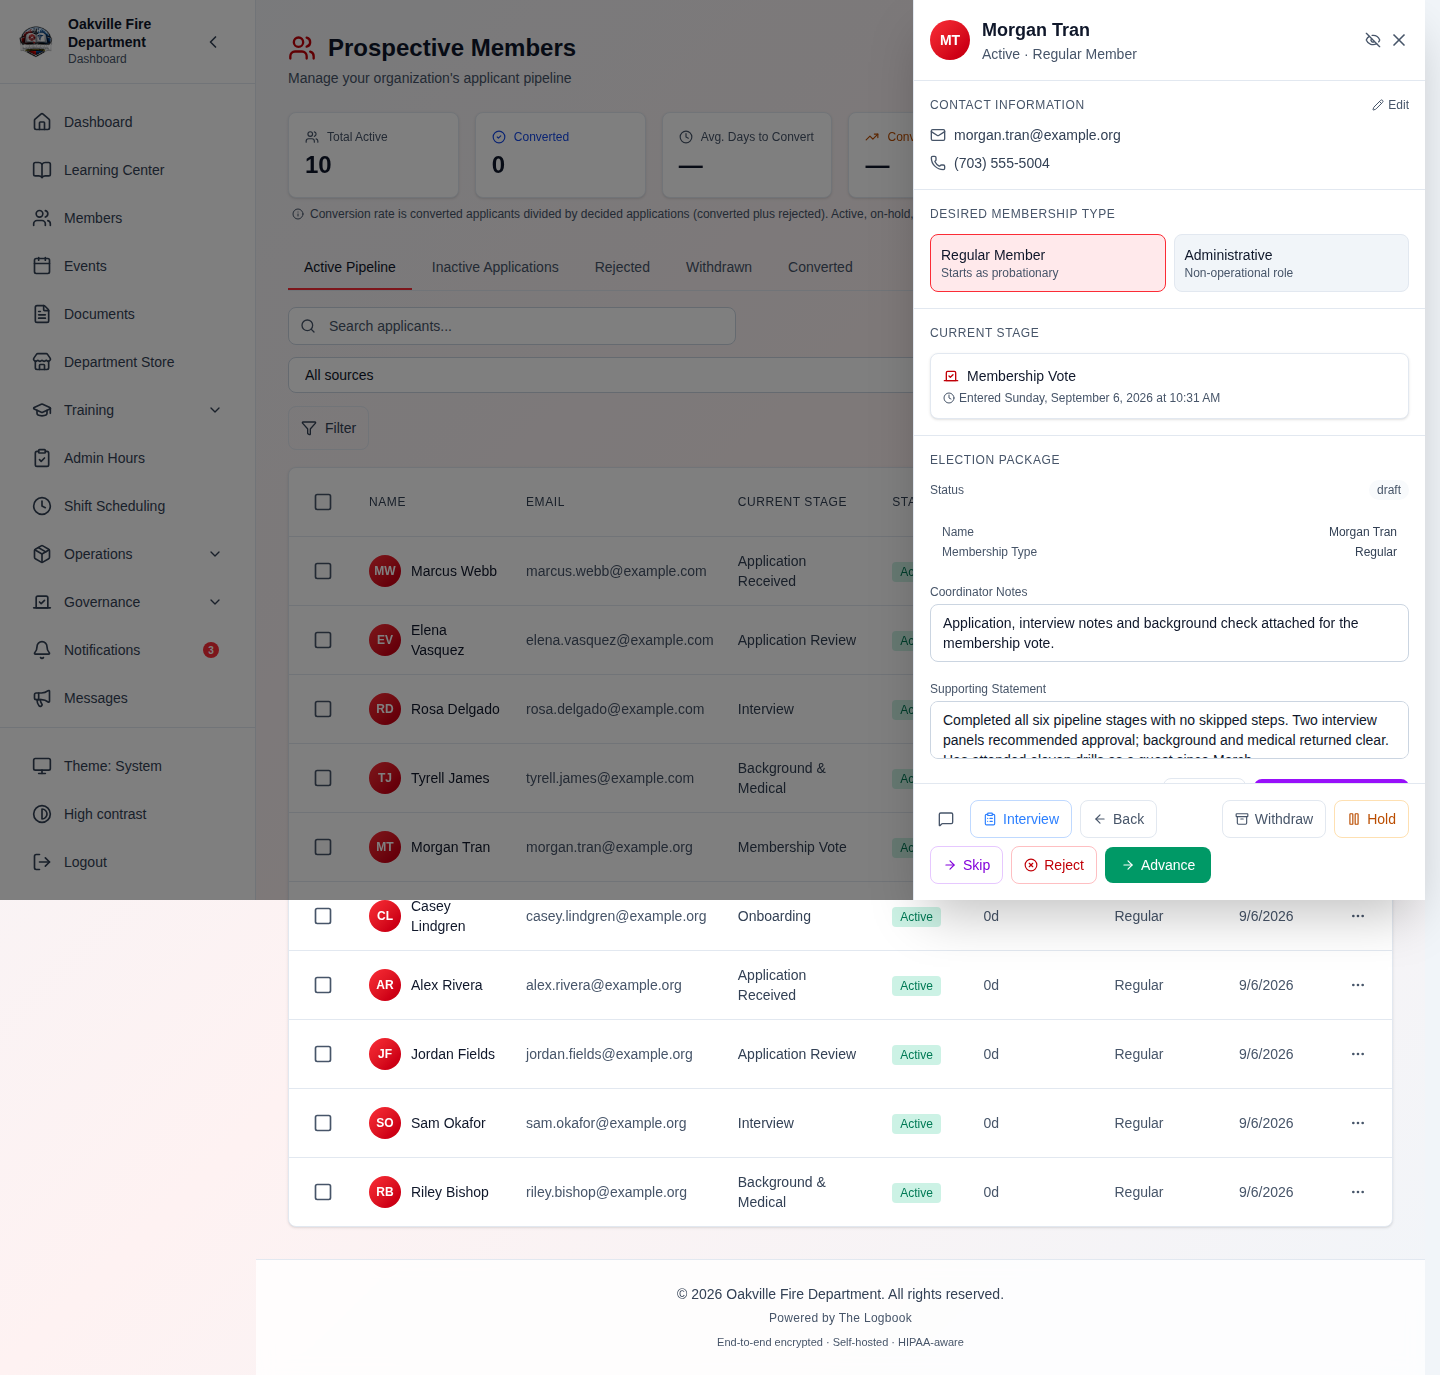
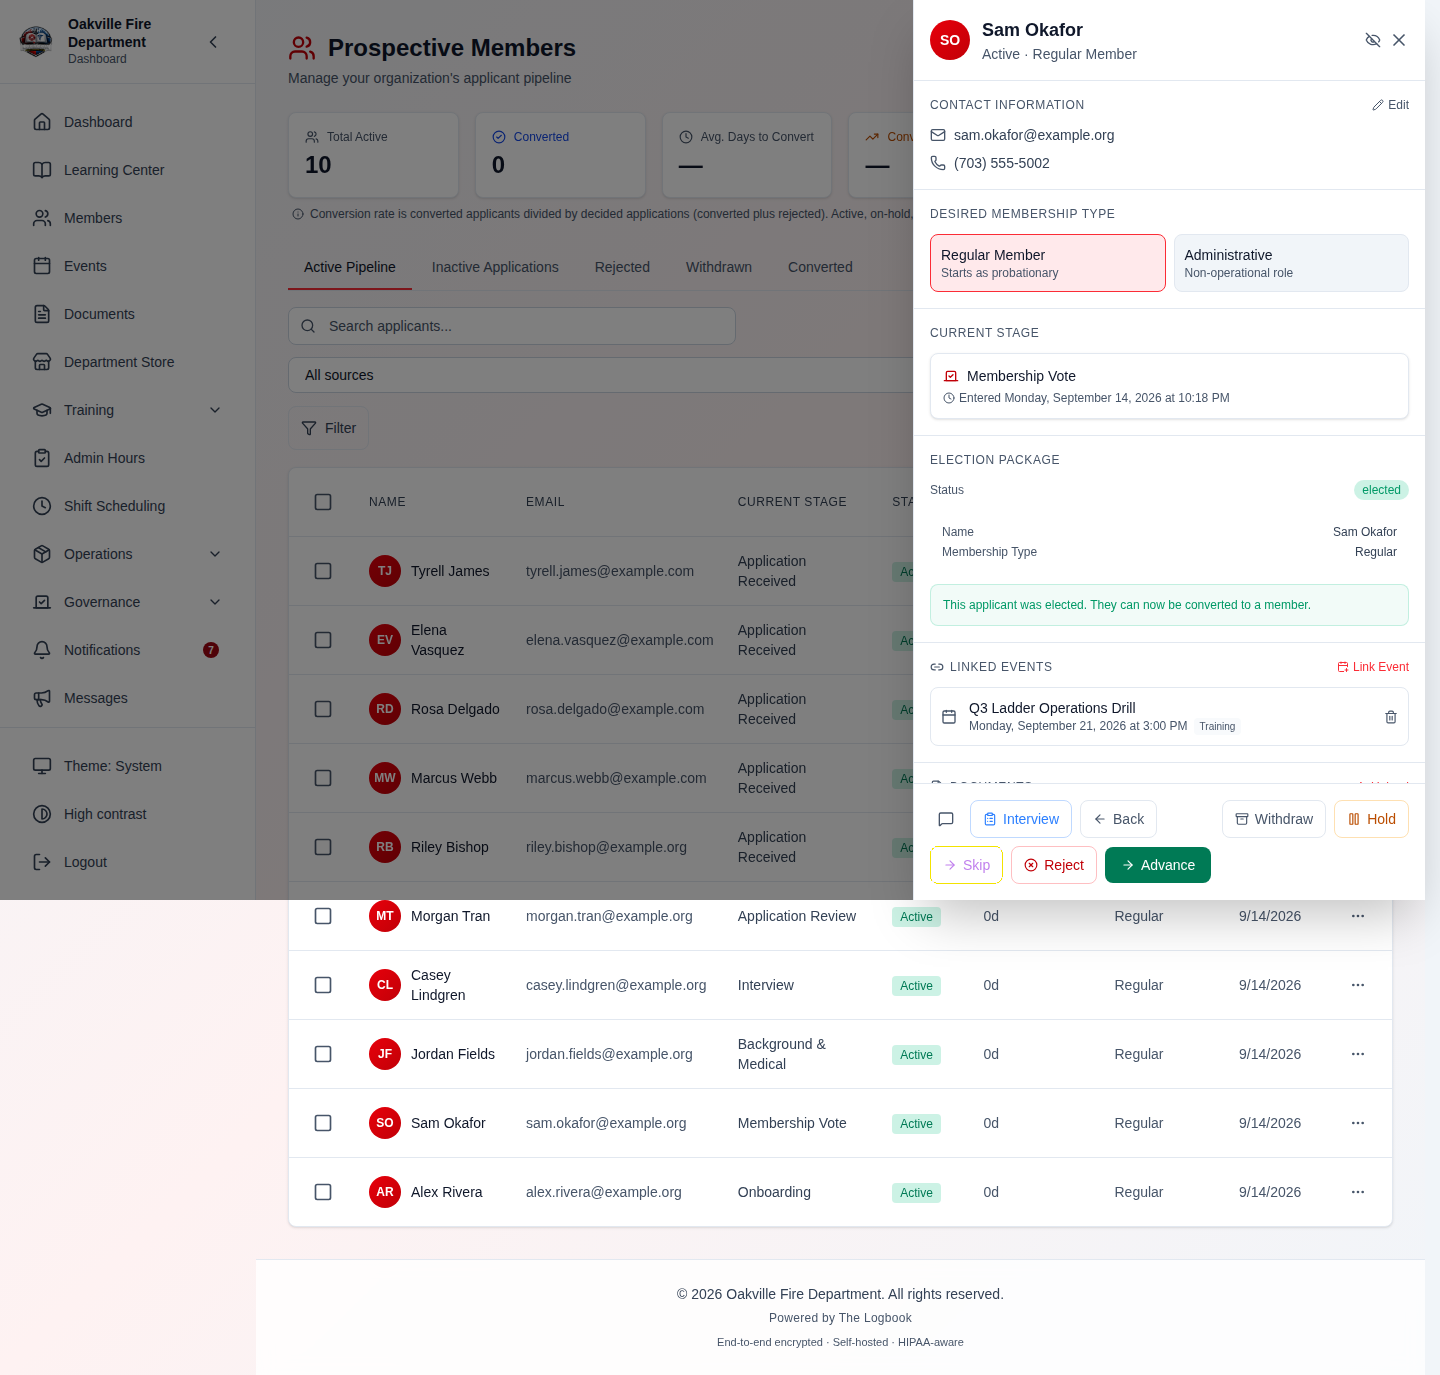
docs(screenshots): recapture 15-08, flag 50 shots shipping with no `expect`
Cleared the queued 15-08-election-package.png recapture (stale since
98d218c6c's new ELECTION_VOTE requirement-hint line) with a full-stack
run — bootstrap + seed + capture --only 15-08, PNG verified: the seeded
applicant's package is already closed/elected, so the resolved message
renders correctly instead of the new hint. status_report.py (580/580),
audit_images.py (no new findings) and check_docs_links.py (0 broken
links) all clean.

With the stack up anyway, ran scripts/test_screenshot_landing_assertion.py
— referenced by the README but not wired into any CI job or npm script,
so nothing had run it. It fails: 50 shots across 12 guides (7 in
08-admin-reports, 9 in 19-august-2026-release-changes, 17 in
20-september-2026-release-changes, the rest scattered) were added without
the required `expect` assertion, all traced to the same
placeholder-filling push (54d51f685) and unnoticed through 15 subsequent
"no drift found" passes. None are in landing_assertion_baseline.txt's
509-shot ratchet, so they were never grandfathered — this is a real gap,
not a stale baseline entry. Not fixed here: a correct `expect` needs the
live screen inspected per shot, and getting 50 of them right in one
unattended pass risks the exact mistake this session was warned against
rushing. Documented in full (id list, breakdown, reproduction command) in
SCREENSHOT_CURRENCY.md as a Hard Stop escalation for a dedicated pass.

Claude-Session: https://claude.ai/code/session_01XG2CV4KQ3ZvQXxijPQC2qT

diff --git a/docs/training/SCREENSHOT_CURRENCY.md b/docs/training/SCREENSHOT_CURRENCY.md
@@ -123,6 +123,77 @@ restores it afterwards. Without that, the count-only Call Volume shots have no
 data behind them and the seeder reports the failure only in its blocked list,
 where a capture run does not look.
 
+## Audited 2026-09-15 — recaptured 15-08, and a real gap found: 50 shots ship with no `expect`
+
+Routine maintenance pass per the currency job's standing brief. Branch was
+already rebased onto `origin/main` by the prior session with nothing further
+to replay (`git merge-base --is-ancestor origin/main HEAD` true, 0 commits
+`HEAD..origin/main`), so no rebase was needed this pass.
+
+**Cleared the queued recapture.** Brought up the full stack
+(`npm install`, `scripts/screenshots/dev_env.sh`, `bootstrap_demo.py`,
+`seed_demo_data.py` — the same benign blocked-item list as every prior
+full-stack pass: the `administrative` membership-tier 400, the count-only
+closeout 400, and the self-approval minutes guard, none of them new) and
+recaptured `15-08-election-package.png`
+(`node scripts/screenshots/capture.mjs --only 15-08`), queued since the
+2026-09-13 second pass for the `StageType.ELECTION_VOTE` requirement-hint
+line added by `98d218c6c`. Viewed the PNG: the captured applicant
+(Sam Okafor, Membership Vote stage) already has a closed, elected package, so
+the panel shows the resolved "This applicant was elected..." message rather
+than the new hint — correct, since the hint only renders for an
+undecided package, and `seed_membership_vote_outcome` closes this one. No
+markdown change — the image was already applied at
+`docs/training/15-prospective-members.md:441`, only the PNG needed
+refreshing.
+
+`status_report.py`: 580/580, unchanged. `audit_images.py --baseline
+scripts/screenshots/audit_baseline.txt`: no new findings across all 580
+images (including the freshly recaptured one) — only the pre-known dark-page
+scrollbar-gutter edge finding, already in the baseline. `check_docs_links.py`:
+358 files, 0 broken links.
+
+**New finding, not fixed this pass — escalated per CLAUDE.md's Hard Stop:**
+with a live stack up anyway, ran `scripts/test_screenshot_landing_assertion.py`
+(mentioned by the README as required reading for "adding a screenshot" but
+not wired into any CI job or npm script — confirmed by grepping
+`.github/workflows/*.yml` and `package.json` for its name; nothing calls it).
+It fails: **50 shots across 12 guides have no `expect`**, so nothing at
+capture time checks they landed on the screen their id and alt text claim —
+exactly the class of defect the README's own `expect` section says shipped
+wrong images twice before the assertion existed (`03-25`, `03-69`). These are
+not part of the 509-shot `landing_assertion_baseline.txt` ratchet (checked —
+none of the 50 ids appear there), so they were never grandfathered in; they
+were simply added without the required field and no prior pass caught it, over
+the 15 consecutive "audit pass, no drift found" commits since `54d51f685`
+("capture the last placeholder") landed at the same timestamp as this
+pattern's start. `git log -S` on two sample ids (`20-17-email-microsoft-oauth-
+test`, `00-26-sidebar-officer-checklists`) confirms they were introduced by
+that same placeholder-filling push, not by this pass or an intervening one.
+
+By guide: `00-getting-started` (1), `01-membership` (3), `02-training` (2),
+`03-scheduling` (4), `04-events-meetings` (1), `05-inventory` (2),
+`06-apparatus-facilities` (1), `08-admin-reports` (7), `10-mobile-pwa` (1),
+`16-integrations` (2), `19-august-2026-release-changes` (9),
+`20-september-2026-release-changes` (17). Full id list saved this pass at
+`/tmp/screenshot-logs/missing_expect.txt` (not committed — scratch output);
+reproduce with `python3 -m pytest scripts/test_screenshot_landing_assertion.py
+-q` from the repo root.
+
+**Why not fixed here:** writing a correct `expect` for each requires opening
+the live screen the shot's `prepare` (if any) drives to and picking text that
+is absent from whatever screen a broken `prepare`/route would land on instead
+— per the README, "pick something that would be absent from the screen you'd
+land on by mistake," not a nav label. Doing that honestly for 50 shots across
+12 guides, several of them recent/unfamiliar features (Claude MCP connect,
+org-chart diagram/outline/node-modal, the testing-module home/report
+screens), is not a single unattended pass's worth of work without risking
+exactly the wrong-`expect`-assertion mistake this session was warned against
+rushing into. Flagging as a dedicated follow-up pass rather than guessing.
+**Do not silence this by adding these ids to `landing_assertion_baseline.txt`**
+— the README is explicit that list only shrinks; these were never on it and
+adding them now would launder a gap as a grandfathered one.
+
 ## Audited 2026-09-14 (fourth watchdog pass) — no drift found
 
 Routine maintenance pass per the currency job's standing brief. This pass
